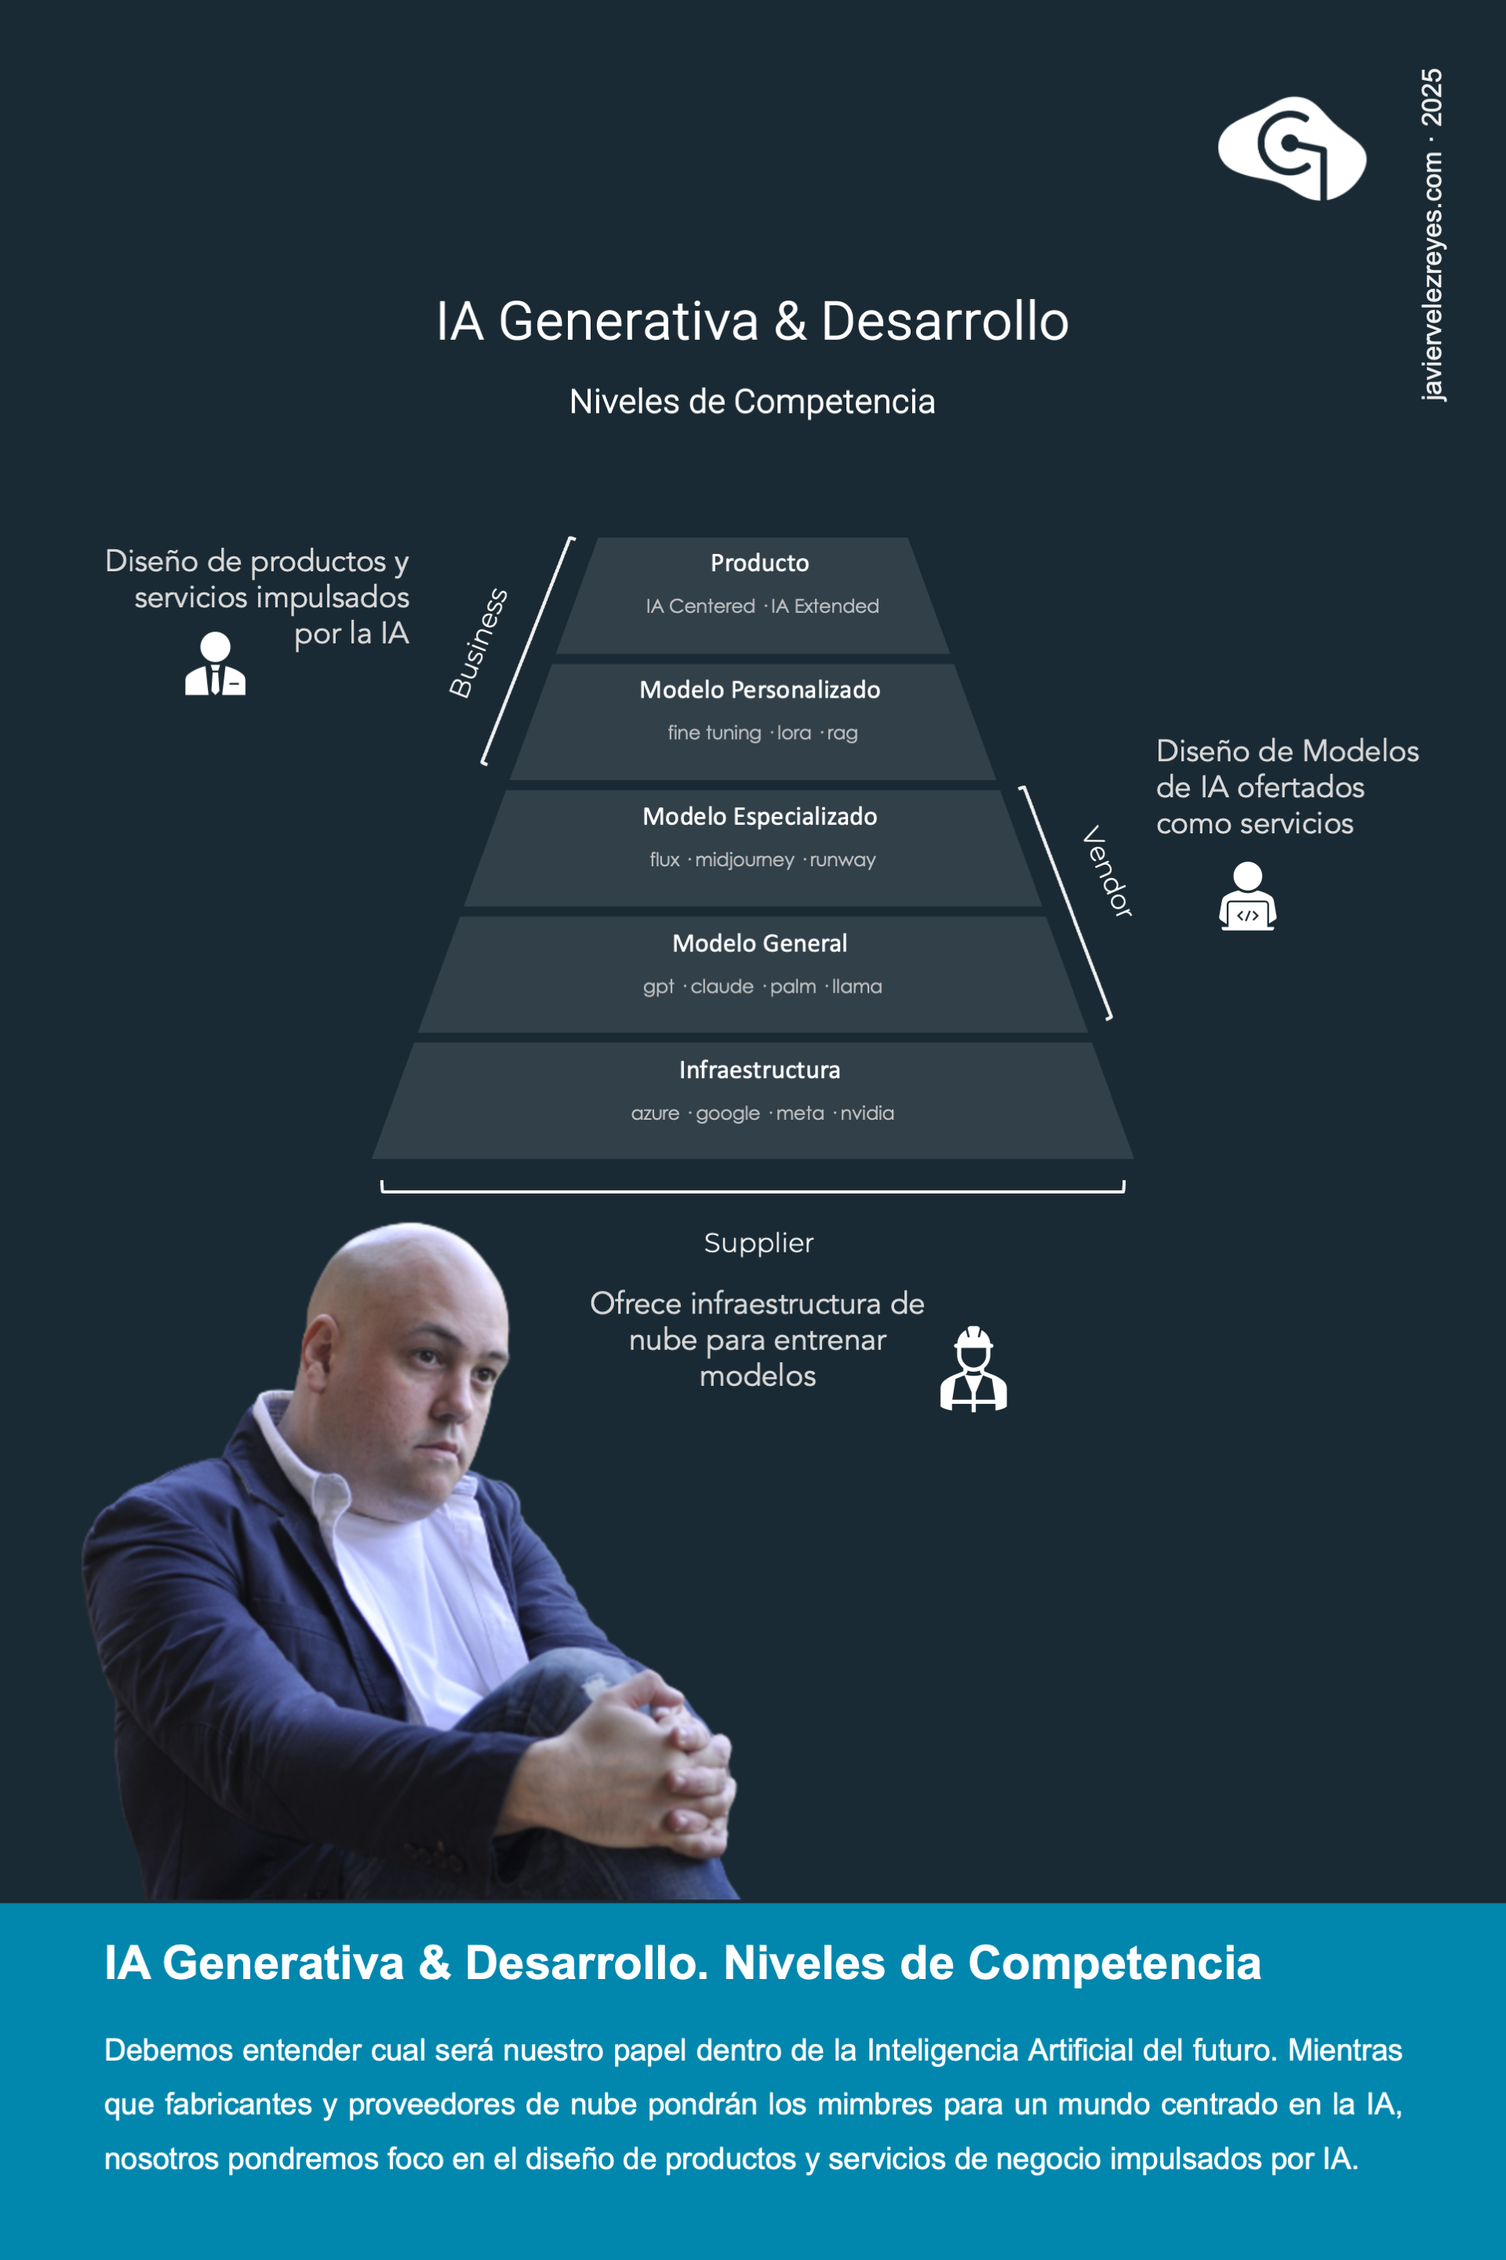
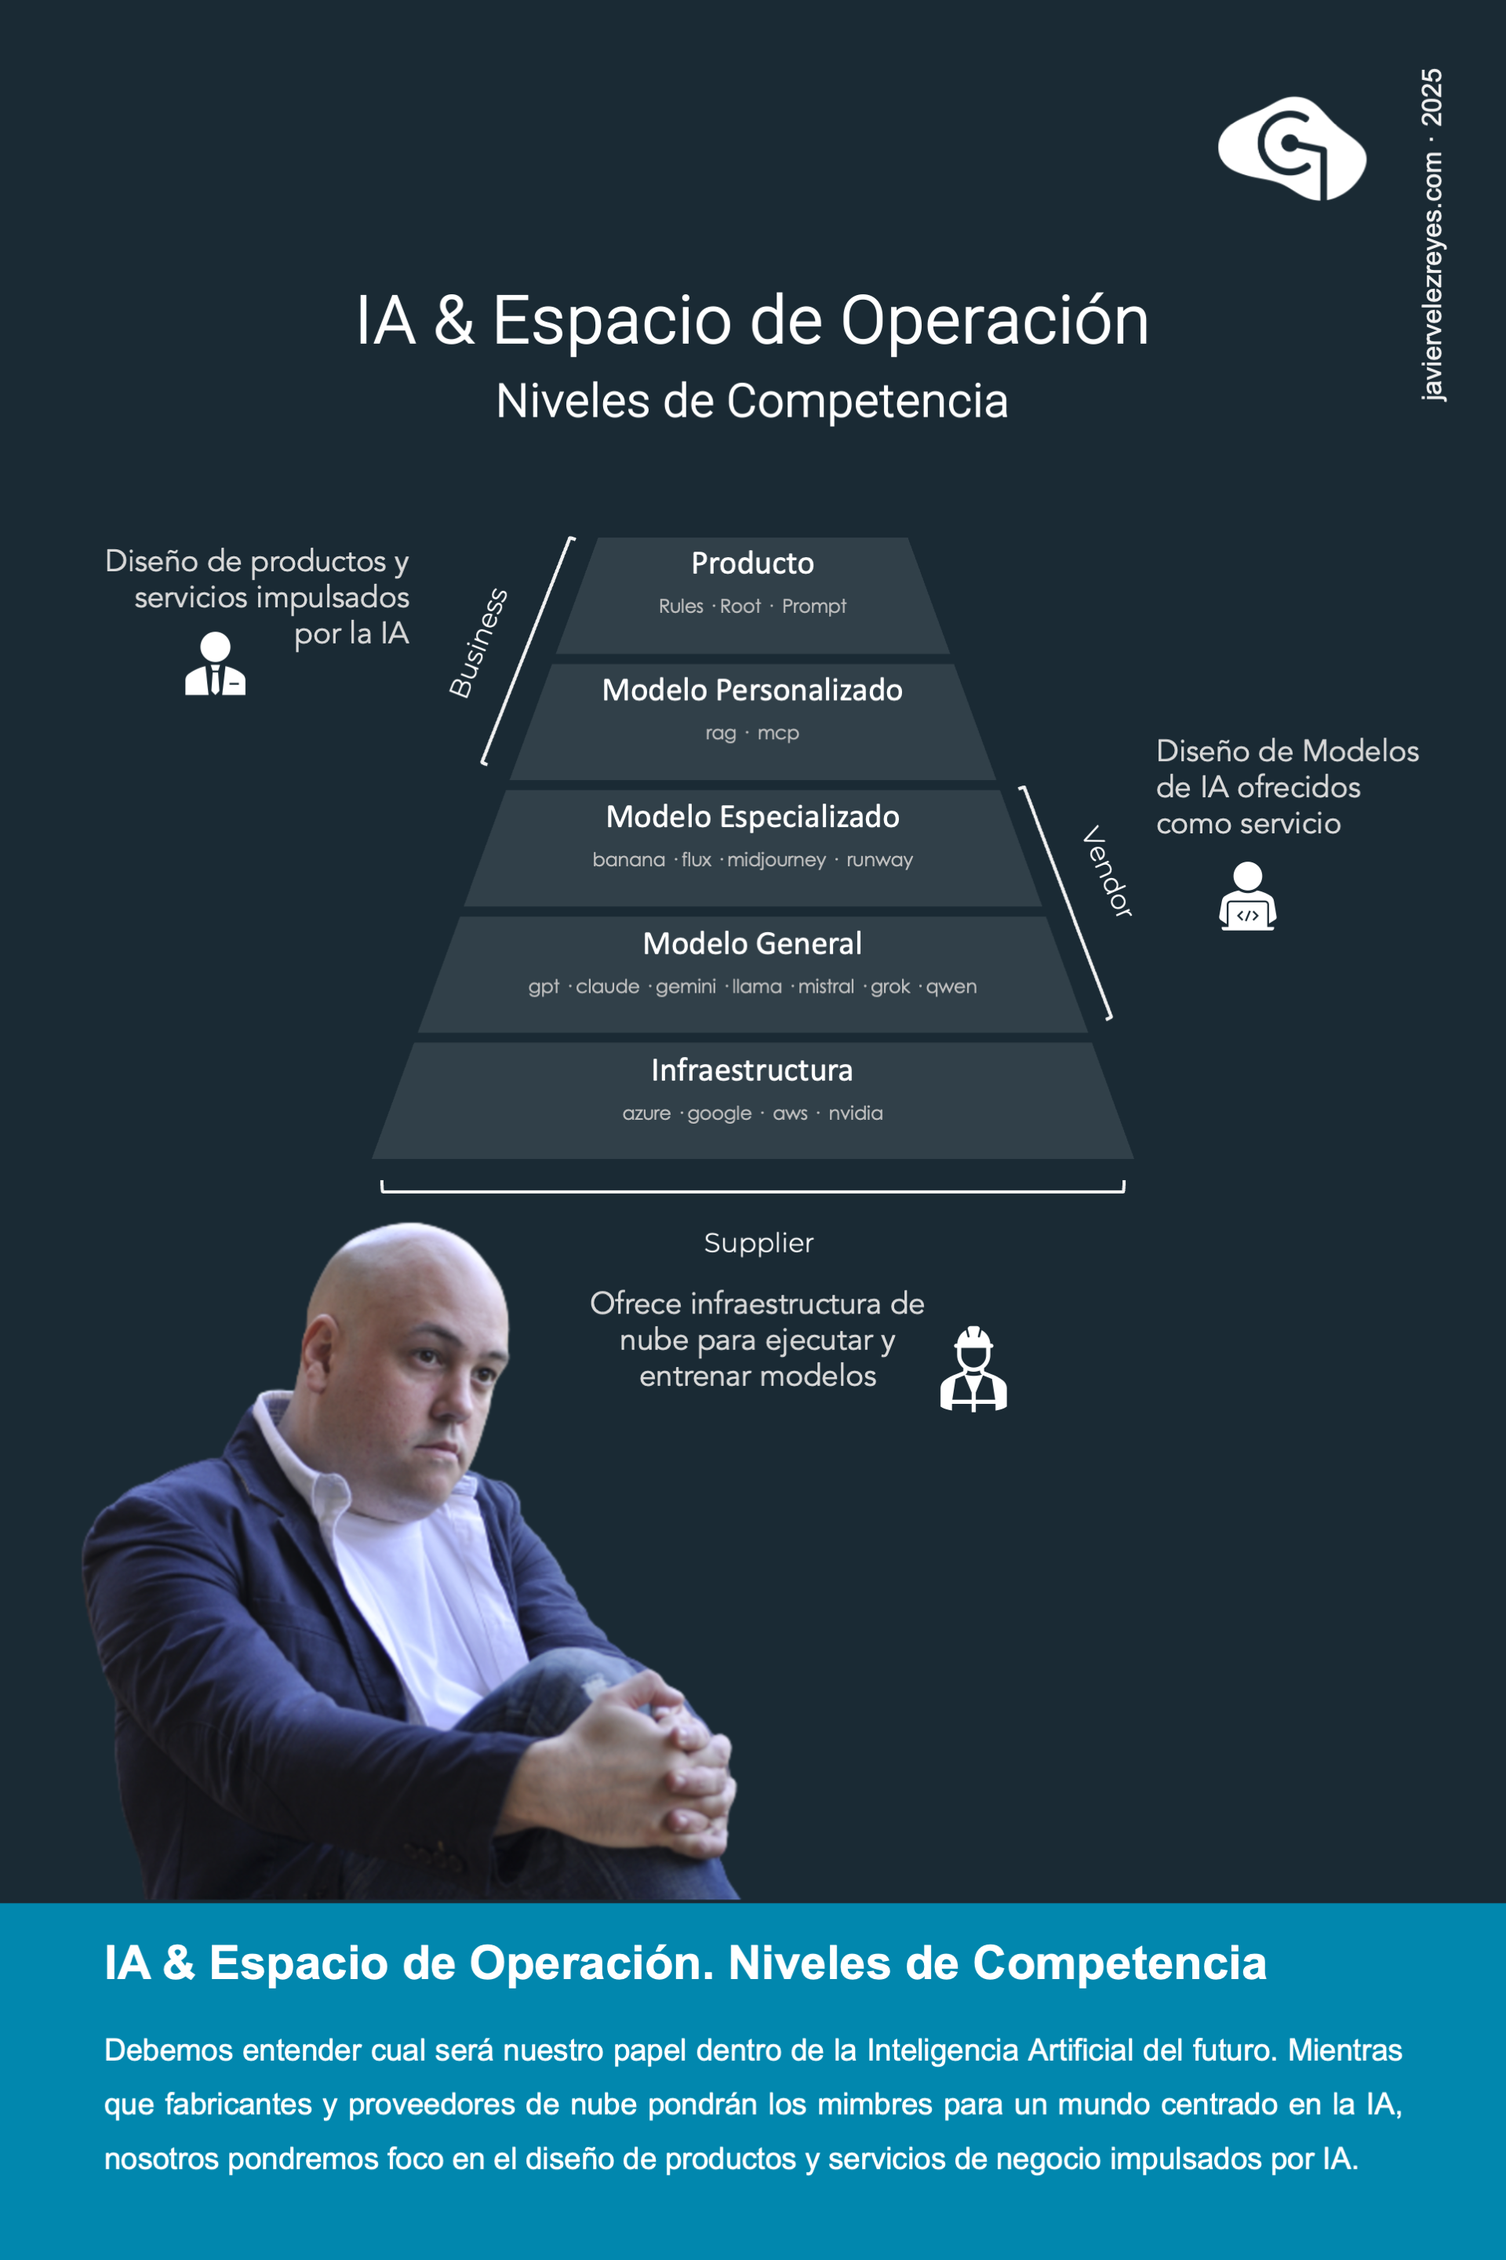
Poster Fixes II

diff --git a/src/config/sections/config.posters.js b/src/config/sections/config.posters.js
@@ -627,7 +627,7 @@ Config.define ({
     links   : [ 'poster-20251002', 'poster-20251001', 'poster-20250904' ]
   }, {
     key     : 'poster-20251004',
-    title   : 'IA Generativa & Desarrollo',
+    title   : 'IA & Espacio de Operación',
     caption : 'Niveles de Competencia',
     image   : '/images/activity/posters/poster.251004.png',
     path    : '/posters/poster-20251004',
@@ -647,8 +647,8 @@ Config.define ({
     links   : [ 'poster-20251003', 'poster-20251002', 'poster-20251001' ]
   }, {
     key     : 'poster-20251005',
-    title   : 'IA Generativa & Desarrollo',
-    caption : 'Roles & Equipo',
+    title   : 'IA & Espacio de Operación',
+    caption : 'Nivel de Infraestructura',
     image   : '/images/activity/posters/poster.251005.png',
     path    : '/posters/poster-20251005',
     author  : 'Javier Vélez',
@@ -657,19 +657,17 @@ Config.define ({
     draft   : false,
     hidden  : false,
     lead    : `
-      La estructura de roles que dará forma a los equipos de desarrollo de productos de negocio de mañana centrados en Inteligencia 
-      Artificial está aún por conformar. Sin embargo hay ya algunas ideas que son una realidad. Se tratará de estructuras de equipo 
-      con competencias interdisciplinares mucho más equilibradas en el desarrollo operativo. Si algo claro traerá la nueva era de la 
-      Inteligencia Artificial a nuestras vidas en el futuro inmediato es un proceso de democratización productiva que allanará los 
-      caminos y eliminará barreras de fricción, permitiendo que perfiles sin conocimientos técnicos profundos puedan mantener un diálogo 
-      intención continuo con la arquitectura inteligente para prescribir modelos de comportamiento emergentes. Los equipos serán una 
-      moneda de doble cara donde los expertos en negocio diseñarán la inteligencia y los técnicos construirán la plataforma donde dicha 
-      inteligencia tiene lugar.`,
+      Podrá parecer una tontería pero en pro de una defensa de la seguridad muy mal entendida son muchos los clientes y técnicos que 
+      abogan por una Inteligencia Artificial desplegada de manera personalizada y en local. Cierto es que la inteligencia local tiene 
+      su espacio en este panorama pero esta reservada para pequeños modelos de lenguaje desplegados en wearables y dispositivos personales 
+      e incluso herramientas de escritorio. Pero dentro del ámbito empresarial donde nos centramos en esta discusión, el hospedaje de los 
+      grandes modelos de lenguaje debe estar a cargo de grandes proveedores de nube. A la postre, son ellos los únicos que tienen 
+      infraestructura suficiente para correrlos y entrenarlos. Ni tu ni yo estamos en este nivel.`,
     links   : [ 'poster-20251004', 'poster-20251003', 'poster-20251002' ]
   }, {
     key     : 'poster-20251101',
-    title   : 'IA Generativa & Desarrollo',
-    caption : 'Proceso & Actividades',
+    title   : 'IA & Espacio de Operación',
+    caption : 'Nivel de Modelo',
     image   : '/images/activity/posters/poster.251101.png',
     path    : '/posters/poster-20251101',
     author  : 'Javier Vélez',
@@ -678,22 +676,40 @@ Config.define ({
     draft   : false,
     hidden  : false,
     lead    : `
-      Los procesos de desarrollo de productos digitales del mañana también se verán fuertemente afectados por la llegada de las 
-      arquitecturas Centradas en Inteligencia Artificial. Las metodologías dejarán de estar centradas en el desarrollo de activos de 
-      especificación formal algorítmica basados en lenguajes de tercera generación para convertirse en especificaciones intencionales 
-      expresadas en lenguaje natural. La cultura de desarrollo basada en esfuerzos de mantenimiento correctivo y evolutivo cederán espacio 
-      a un proceso basado en la reconstrucción sistemática y automática de los productos en atención a los deltas de cambio que se produzcan 
-      en las especificaciones intencionales. Y así mismo, los limites fronterizos en la experiencia de uso de los productos serán mucho 
-      más difusos. Pero eso ya os lo contaré otro día.`,
+      El uso de modelos generalistas, descargados directamente de un marketplace como base para la creación de modelos de negocio personalizados 
+      por medio de técnicas de entrenamiento propias de la ciencia de datos, como LoRA o fine tunning, es una práctica equivocada relativamente 
+      habitual. Los arquitectos de negocio debemos entender que nuestra responsabilidad no cae dentro de este perímetro. Muy al contrario, 
+      nuestra labor será consumir grandes modelos de lenguaje expuestos como servicios en la nube. No debemos incurrir en el error de competir 
+      con los grandes vendors de mercado. Ellos tienen tiempo dedicado, hordas de ingenieros de Inteligencia Artificial muy especializados, 
+      grandes recursos y contratos privilegiados con los proveedores de infraestructura que nosotros nunca tendremos.`,
     links   : [ 'poster-20251005', 'poster-20251004', 'poster-20251003' ]
   }, {
     key     : 'poster-20251102',
-    title   : 'Arquitecturas Centradas en IA',
-    caption : 'Perspectiva General',
+    title   : 'IA & Espacio de Operación',
+    caption : 'Nivel de Producto',
     image   : '/images/activity/posters/poster.251102.png',
     path    : '/posters/poster-20251102',
     author  : 'Javier Vélez',
     date    : '12/11/2025',
+    time    : '12:00',
+    draft   : false,
+    hidden  : false,
+    lead    : `
+      En el nivel de producto, las organizaciones encuentran el espacio de acción para dar satisfacción a sus necesidades. Es precisamente dentro 
+      de este perímetro donde nuestra labor como arquitectos empresariales coge un mayor protagonismo. Nuestra misión es entender el offering de 
+      capacidades ofrecido por los grandes players de mercado y consumirlo en forma de servicios en la nube. A diez mil pies de altura este camino 
+      pasa por conectar la Inteligencia Artificial general o especializada a los perímetros informacionales y operacionales de la compañía usando 
+      técnicas RAG y CMP respectivamente. Después el producto se crea, esencialmente, a través de esfuerzos de especificación intencional expresados 
+      en lenguaje natural para crear el modelo de comportamiento de producto deseado.`,
+    links   : [ 'poster-20251101', 'poster-20251005', 'poster-20251004', ]
+  }, {
+    key     : 'poster-20251103',
+    title   : 'Arquitecturas Centradas en IA',
+    caption : 'Perspectiva General',
+    image   : '/images/activity/posters/poster.251103.png',
+    path    : '/posters/poster-20251103',
+    author  : 'Javier Vélez',
+    date    : '19/11/2025',
     time    : '12:00',
     draft   : false,
     hidden  : false,
@@ -705,15 +721,15 @@ Config.define ({
       poner esfuerzo en descubrir modelos, principios, patrones técnicas y mecanismos. De momento, me gustaría compartir con vosotros 
       este nuevo marco de referencia arquitectónico que he ideado y entrar a discutir cada una de las capas del mismo en las próximas 
       semanas.`,
-    links   : [ 'poster-20251101', 'poster-20251005', 'poster-20251004', ]
+    links   : [ 'poster-20251102', 'poster-20251101', 'poster-20251005' ]
   }, {
-    key     : 'poster-20251103',
+    key     : 'poster-20251104',
     title   : 'Arquitecturas Centradas en IA',
     caption : 'Capa de Canales',
-    image   : '/images/activity/posters/poster.251103.png',
-    path    : '/posters/poster-20251103',
+    image   : '/images/activity/posters/poster.251104.png',
+    path    : '/posters/poster-20251104',
     author  : 'Javier Vélez',
-    date    : '19/11/2025',
+    date    : '26/11/2025',
     time    : '12:00',
     draft   : false,
     hidden  : false,
@@ -725,15 +741,15 @@ Config.define ({
       y palancas de interacción centrados en el diálogo, y el diseño de productos digitales tendrá que adaptarse bajo el espacio de uso 
       de tales palancas. Los conceptos de experiencia fluida en entornos de una omnicanalidad inmersiva multimodal cogerán más fuerza 
       que nunca hasta tal punto de que probablemente se cambie la anatomía de los dispositivos de acceso según hoy los conocemos.`,
-    links   : [ 'poster-20251102', 'poster-20251101', 'poster-20251005' ]
+    links   : [ 'poster-20251103', 'poster-20251102', 'poster-20251101' ]
   }, {
-    key     : 'poster-20251104',
+    key     : 'poster-20251201',
     title   : 'Arquitecturas Centradas en IA',
     caption : 'Capa de Diálogo',
-    image   : '/images/activity/posters/poster.251104.png',
-    path    : '/posters/poster-20251104',
+    image   : '/images/activity/posters/poster.251201.png',
+    path    : '/posters/poster-20251201',
     author  : 'Javier Vélez',
-    date    : '26/11/2025',
+    date    : '03/11/2025',
     time    : '12:00',
     draft   : false,
     hidden  : false,
@@ -745,15 +761,15 @@ Config.define ({
       salidas modales. Este es el relato para arquitecturas basadas en LLM del horizonte H1 de la Inteligencia Artificial. Pero con 
       el uso de modelos modales del horizonte H2 estas fases preliminares de transformación ya no resultan necesarias. Además de esto, 
       el mantenimiento de la sesión de diálogo también es parte de la responsabilidad de esta capa.`,
-    links   : [ 'poster-20251103', 'poster-20251102', 'poster-20251101' ]
+    links   : [ 'poster-20251104', 'poster-20251103', 'poster-20251102' ]
   }, {
-    key     : 'poster-20251201',
+    key     : 'poster-20251202',
     title   : 'Arquitecturas Centradas en IA',
     caption : 'Capa de Contexto',
-    image   : '/images/activity/posters/poster.251201.png',
-    path    : '/posters/poster-20251201',
+    image   : '/images/activity/posters/poster.251202.png',
+    path    : '/posters/poster-20251202',
     author  : 'Javier Vélez',
-    date    : '03/12/2025',
+    date    : '10/12/2025',
     time    : '12:00',
     draft   : false,
     hidden  : false,
@@ -764,15 +780,15 @@ Config.define ({
       En segundo, la consulta se enriquece con el contexto de conocimiento local competente para la naturaleza de la consulta formulada 
       de acuerdo a la técnica de Retrieval Augmented Generation o RAG. Esta capa de contexto es fundamental para centrar el modelo de 
       razonamiento de la arquitectura en el marco de conocimiento especializado del negocio.`,
-    links   : [ 'poster-20251104', 'poster-20251103', 'poster-20251102' ]
+    links   : [ 'poster-20251201', 'poster-20251104', 'poster-20251103' ]
   }, {
-    key     : 'poster-20251202',
+    key     : 'poster-20251203',
     title   : 'Arquitecturas Centradas en IA',
     caption : 'Capa de Operación',
-    image   : '/images/activity/posters/poster.251202.png',
-    path    : '/posters/poster-20251202',
+    image   : '/images/activity/posters/poster.251203.png',
+    path    : '/posters/poster-20251203',
     author  : 'Javier Vélez',
-    date    : '10/12/2025',
+    date    : '17/12/2025',
     time    : '12:00',
     draft   : false,
     hidden  : false,
@@ -785,15 +801,15 @@ Config.define ({
       H3 la inteligencia será capaz de diseñar cadenas de razonamiento elaboradas para trazar un plan. Hasta ese punto los agentes 
       serán solo informadores de acciones a realizar (function calling). Pero a partir del horizonte operativo (H4) éstos tendrán 
       la capacidad de atender de manera autónoma sobre cada una de sus tareas encomendadas.`,
-    links   : [ 'poster-20251201', 'poster-20251104', 'poster-20251103' ]
+    links   : [ 'poster-20251202', 'poster-20251201', 'poster-20251104' ]
   }, {
-    key     : 'poster-20251203',
+    key     : 'poster-20251204',
     title   : 'Arquitecturas Centradas en IA',
     caption : 'Capa de Servicios',
-    image   : '/images/activity/posters/poster.251203.png',
-    path    : '/posters/poster-20251203',
+    image   : '/images/activity/posters/poster.251204.png',
+    path    : '/posters/poster-20251204',
     author  : 'Javier Vélez',
-    date    : '17/12/2025',
+    date    : '24/12/2025',
     time    : '12:00',
     draft   : false,
     hidden  : false,
@@ -806,7 +822,29 @@ Config.define ({
       en comandos y otros que se orientarán a levantar canales de comunicación dialógica intencional. Con el tiempo es de esperar que 
       este segundo tipo de interacciones vaya ganando terreno a los modelos de la generación anterior.
     `,
-    links   : [ 'poster-20251202', 'poster-20251201', 'poster-20251104' ]
+    links   : [ 'poster-20251203', 'poster-20251202', 'poster-20251201' ]
+  }, {
+    key     : 'poster-20251205',
+    title   : 'La IA en 2025',
+    caption : 'Publicaciones & Reflexiones',
+    image   : '/images/activity/posters/poster.251205.png',
+    path    : '/posters/poster-20251205',
+    author  : 'Javier Vélez',
+    date    : '31/12/2025',
+    time    : '12:00',
+    draft   : false,
+    hidden  : false,
+    lead    : `
+      A lo largo de todo el año 2025 hemos hecho un recorrido por los principales puntos de toque de la Inteligencia Artificial. 
+      Comenzamos posicionando la IA en el marco evolutivo de los modelos de experiencia de usuario, separamos polvo de paja al 
+      posicionar esta corriente de inteligencia artificial dentro del espacio conexionista, presentamos sus fundamentos teóricos 
+      hablando del modelo de neurona artificial y de sus modelos de operación y entrenamiento, abrazamos el debate sobre qué es 
+      verdaderamente inteligencia, estudiamos el conjunto de hitos históricos que nos trajo hasta aquí, discutimos como la IA de 
+      nueva generación ha supuesto una verdadera conquista del lenguaje que ha revolucionado los modelos de interacción, discutimos 
+      los factores de impacto de esta era de transformación digital, presentamos el modelo de madurez de la Inteligencia Artificial 
+      discutiendo cada uno de sus horizontes, abordamos los niveles de operación de esta tecnología, y finalmente, presentamos el 
+      modelo de referencia de las arquitecturas de Inteligencia Artificial actuales.`,
+    links   : [ 'poster-20251204', 'poster-20251203', 'poster-20251202' ]
   }
 ]
 
